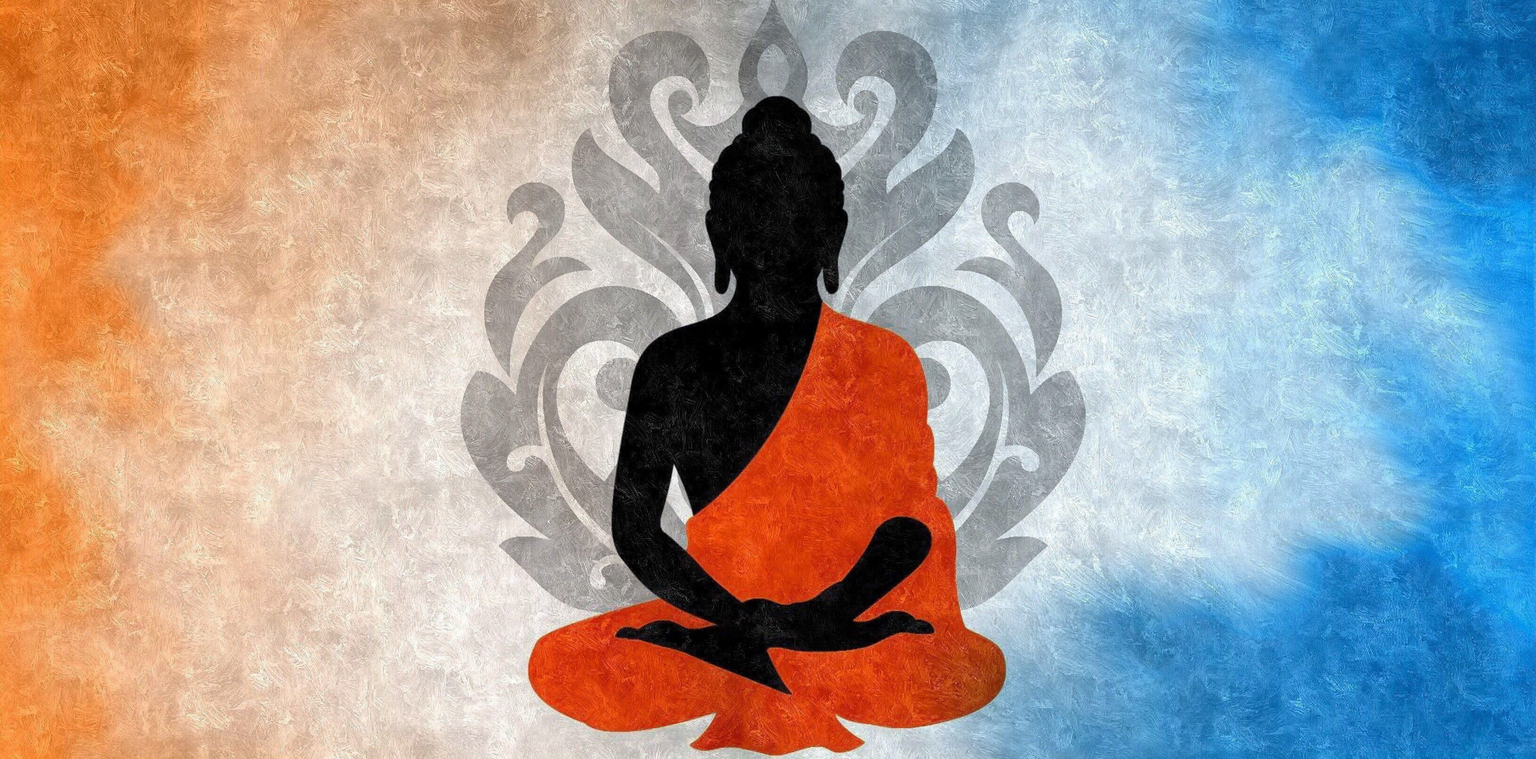
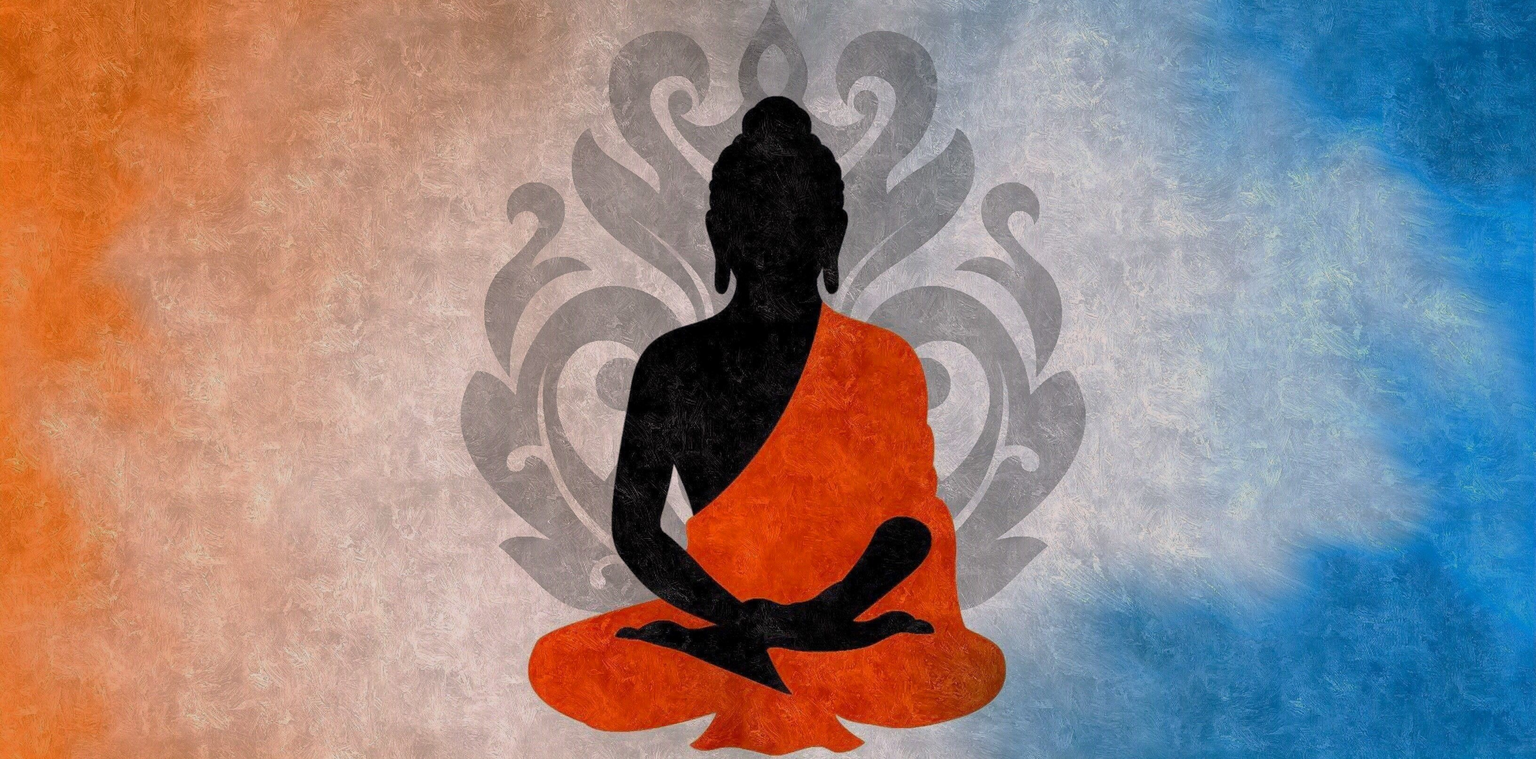
Feat: Styling smooth scroll and picture

diff --git a/pages/index.html b/pages/index.html
@@ -13,32 +13,47 @@
 <body>
     <header>
         <nav>
+            <h2 class="logo"><a href="#home">BCU</a></h2>
             <ul>
-                <li><a href="#home">Home</a></li>
                 <li><a href="#about">About Us</a></li>
-                <li><a href="#events">Upcoming events</a></li>
+                <li><a href="#events">Events</a></li>
+                <li><a href="#resources">Resources</a></li>
                 <li><a href="#donations">Donations</a></li>
                 <li><a href="#contact">Contact</a></li>
             </ul>
     </header>
     <main>
 
-        <section id="home">
-            <h1>Welcome to the Buddhist Centre Utrecht</h1>
-            <img src="/images/4kbuddha-banner.jpg" alt="Buddha Ultra HD Wallpaper - Uploaded by laurentiudll" class="full-width-image"/>
-            <p>Explore our teachings, events, and community activities.</p>
+        <section class="homepage" id="home">
+            <div class="content">
+                <div class="text">
+                    <h1>Welcome to the Buddhist Centre Utrecht</h1>
+                    <p>Explore our teachings, events, and community activities.</p>
+                </div>
+            </div>
         </section>
 
         <section id="about">
             <h2>About Us</h2>
-            <p>We are a community dedicated to the practice and teachings of Buddhism, offering a space for meditation and spiritual growth.</p>
+            <p>We are a new Utrecht based community dedicated to the practice and teachings of Buddhism, offering a space for meditation and spiritual growth.<br>
+            Our centre is open to everyone, regardless of background or experience. We offer regular meditation sessions, teachings, and community events.<br>
+            We're just one of many centres of the Triratna Buddhist Community, an international Buddhist movement based in over 20 countries. <br>
+            We teach and practise an approach to Buddhism that is suitable for everyone living in today's world.</p>
 
         <section id="events">
-            <h2>Recurring Events</h2>
+            <h2>Events</h2>
             <ul>
                 <li>Weekly Mindfulness of Breathing Meditation - Every Sunday evening at 7 PM</li>
                 <li>Bi-weekly Metta Bhavana (Loving kindness) Meditation - Every other Sunday evening at 8 PM</li>
                 <li>Monthly Dharma Talk - First Sunday of each month</li>
+            </ul>
+        </section>
+
+        <section id="resources">
+            <h2>Resources</h2>
+            <ul>
+                <li><a href="https://thebuddhistcentre.com/triratna">What is Triratna?</a></li>
+                <li><a href="https://www.freebuddhistaudio.com">Dharma Talks</a></li>
             </ul>
         </section>
 
@@ -53,7 +68,7 @@
         </section>
 
         <section id="contact">
-            <h1>Please get in touch if you have any questions or suggestions!</h1>
+            <h2>Please get in touch if you have any questions or suggestions!</h2>
             <form action="mailto:buddhistcentreutrecht@gmail.com" method="POST" enctype="text/plain">
                 <label for="name">Name:</label><br>
                 <input type="text" id="name" name="name" required><br><br>

diff --git a/css/styles.css b/css/styles.css
@@ -1,16 +1,42 @@
+* {
+  margin: 0;
+  padding: 0;
+  box-sizing: border-box;
+  font-family: Arial, sans-serif;
+}
+
+html {
+  scroll-behavior: smooth;
+}
+
 body {
-    font-family: Arial, sans-serif;
-    margin: 0;
-    padding: 0;
+  background: #f2f2f2;
 }
 
 header {
-    background-color: #0068d7;
-    color: white;
-    position: fixed;
-    top: 0;
-    width: 100%;
-    z-index: 1000;
+  position: fixed;
+  top: 0;
+  left: 0;
+  z-index: 5;
+  width: 100%;
+  display: flex;
+  justify-content: center;
+  background: #005393;
+}
+
+nav {
+  display: flex;
+  padding: 0 10px;
+  max-width: 1200px;
+  width: 100%;
+  align-items: center;
+  justify-content: space-between;
+}
+
+nav .logo a {
+  display: flex;
+  align-items: center;
+  margin-left: 0;
 }
 
 nav ul {
@@ -22,7 +48,7 @@ nav ul {
 }
 
 nav ul li {
-    margin: 0 15px;
+    margin: 0 0 0 5px;
 }
 
 nav ul li a {
@@ -35,25 +61,74 @@ nav ul li a:hover {
     text-decoration: underline;
 }
 
-main {
-    padding-top: 60px; /* Space for fixed header */
-    padding: 20px;
+header a, footer a {
+  margin-left: 40px;
+  text-decoration: none;
+  color: #fff;
+  height: 100%;
+  padding: 5px 0;
+  display: inline-block;
+}
+
+header a:hover, footer a:hover {
+  color: #ddd;
+}
+
+section {
+  display: flex;
+  align-items: center;
+  flex-direction: column;
+  padding: 80px 0 0;
 }
 
 footer {
     background-color: #333;
     color: white;
     text-align: center;
-    padding: 10px 0;
+    padding: 30px 0;
     position: relative;
     bottom: 0;
     width: 100%;
 }
 
-.full-width-image {
-    width: 50%;
-    display: block;
-    max-width: 100%;
-    height: 50%;
-    margin: 0 auto;
+.homepage {
+  height: 100vh;
+  width: 100%;
+  position: relative;
+  background: url("/images/4kbuddha-banner.jpg");
+  background-position: center 10%;
+  background-size: cover;
+}
+
+.homepage::before {
+  content: "";
+  position: absolute;
+  left: 0;
+  top: 0;
+  height: 100%;
+  width: 100%;
+  background: rgba(0, 0, 0, 0.2);
+}
+
+.homepage .content {
+  display: flex;
+  height: 150%;
+  z-index: 3;
+  align-items: center;
+  justify-content: center;
+  flex-direction: column;
+}
+
+.homepage .content h1 {
+  font-size: 60px;
+  font-weight: 700;
+  margin-bottom: 10px;
+}
+
+.homepage .content .text {
+  margin-bottom: 50px;
+  color: #fff;
+  font-size: 30px;
+  text-align: center;
+  text-shadow: 0px 10px 20px rgba(0, 0, 0, 0.5);
 }
